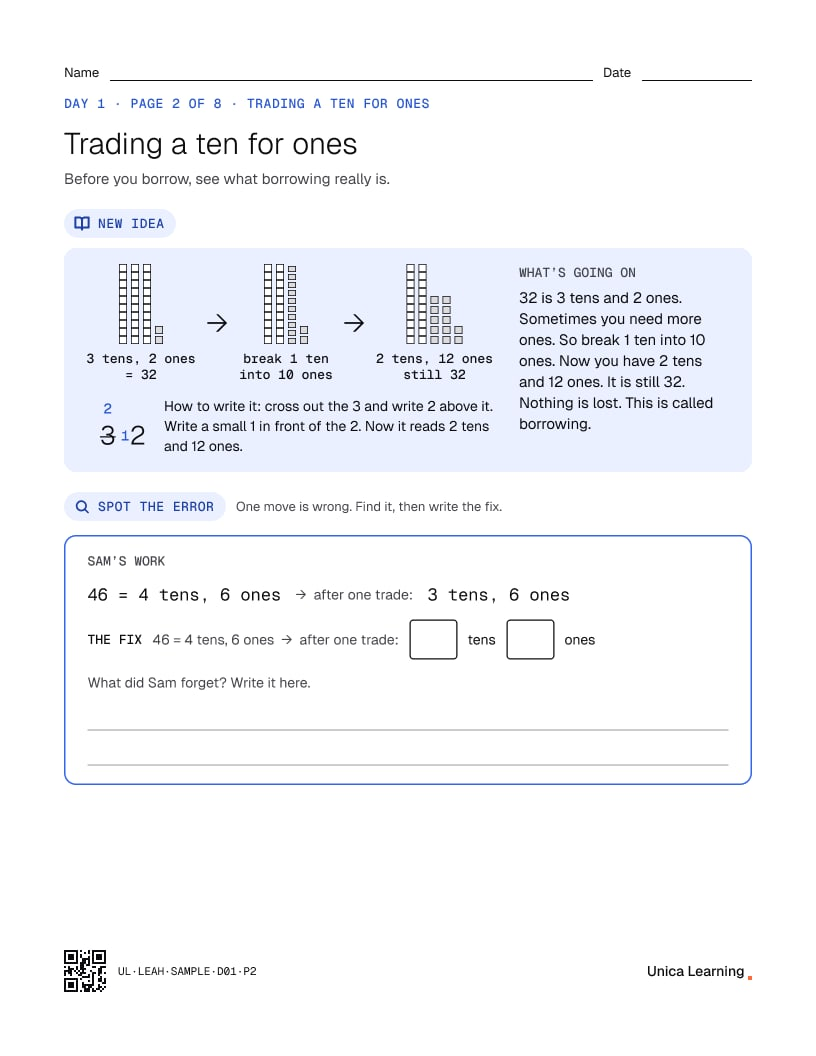
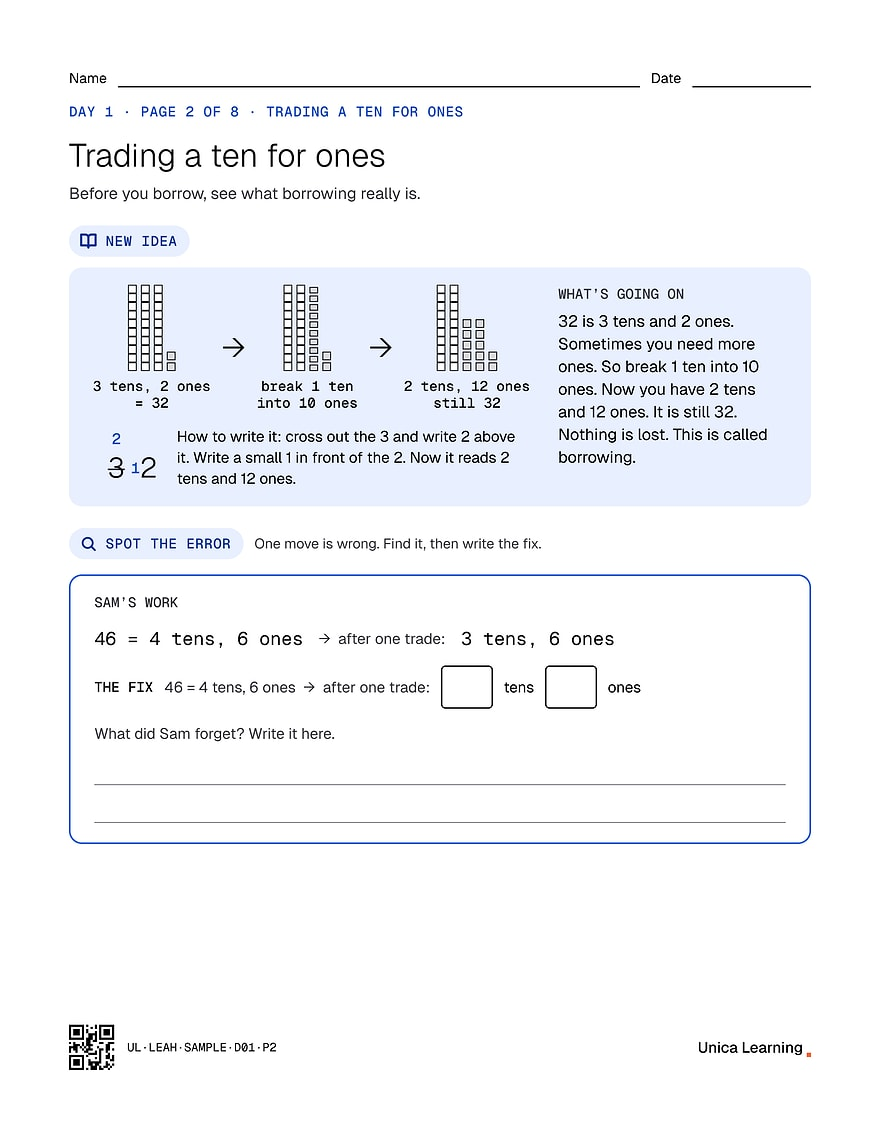
What's included: sharper, darker workbook pages
Pages are rendered from Figma at 2x and saved at 880 px (the size a
retina screen needs for the 440 px page), with the light grey print a
little darker. At rest the book shows only the open spread with no 3D
depth, so the browser does not resample the pages; depth comes back
only while a page turns.

diff --git a/src/components/whats-included-book.tsx b/src/components/whats-included-book.tsx
@@ -49,7 +49,7 @@ export function WorkbookReader() {
         <div className="wi-rd is-open">
           <div className="wi-rd-stage">
             <div
-              className="wi-rd-body"
+              className={`wi-rd-body${Object.keys(anim).length ? " turning" : ""}`}
               onClick={(e) => {
                 const b = e.currentTarget.getBoundingClientRect();
                 turn(e.clientX > b.left + b.width / 2 ? 1 : -1);
@@ -63,7 +63,8 @@ export function WorkbookReader() {
               <div className="wi-rd-re" />
               {Array.from({ length: LEAVES }, (_, i) => {
                 const fr = book.pages[2 * i], bk = book.pages[2 * i + 1];
-                const cls = ["wi-lf", i === 0 && "is-cover", i < f && "flipped", anim[i]].filter(Boolean).join(" ");
+                // Only the open spread shows at rest, flat, so the browser draws the pages at full sharpness.
+                const cls = ["wi-lf", i === 0 && "is-cover", i < f && "flipped", (i === f - 1 || i === f) && "shown", anim[i]].filter(Boolean).join(" ");
                 return (
                   <div key={`${key}-${i}`} className={cls} style={{ "--z": `${-i}px` } as CSSProperties} onAnimationEnd={done(i)}>
                     <div className="wi-hf in">

diff --git a/src/components/whats-included.css b/src/components/whats-included.css
@@ -47,6 +47,10 @@
 .wi-lf, .wi-rd-nav { pointer-events: auto; }
 .wi-lf { position: absolute; left: 440px; top: 0; width: 440px; height: 570px; transform-origin: 0 50%; transform-style: preserve-3d; transform: rotateY(0deg) translateZ(var(--z)); cursor: pointer; }
 .wi-lf.flipped { transform: rotateY(-180deg) translateZ(var(--z)); }
+/* At rest: no depth, and only the open spread shows (depth makes the browser resample the pages, so they blur). */
+.wi-rd-body:not(.turning) .wi-lf { transform: none; }
+.wi-rd-body:not(.turning) .wi-lf.flipped { transform: rotateY(-180deg); }
+.wi-rd-body:not(.turning) .wi-lf:not(.shown) { visibility: hidden; }
 .wi-lf.fwd { animation: wi-lfturn .95s cubic-bezier(.42,.05,.28,1) both; }
 .wi-lf.bwd { animation: wi-lfturn .95s cubic-bezier(.42,.05,.28,1) reverse both; }
 @keyframes wi-lfturn { from { transform: rotateY(0deg) translateZ(var(--z)); } to { transform: rotateY(-180deg) translateZ(var(--z)); } }
